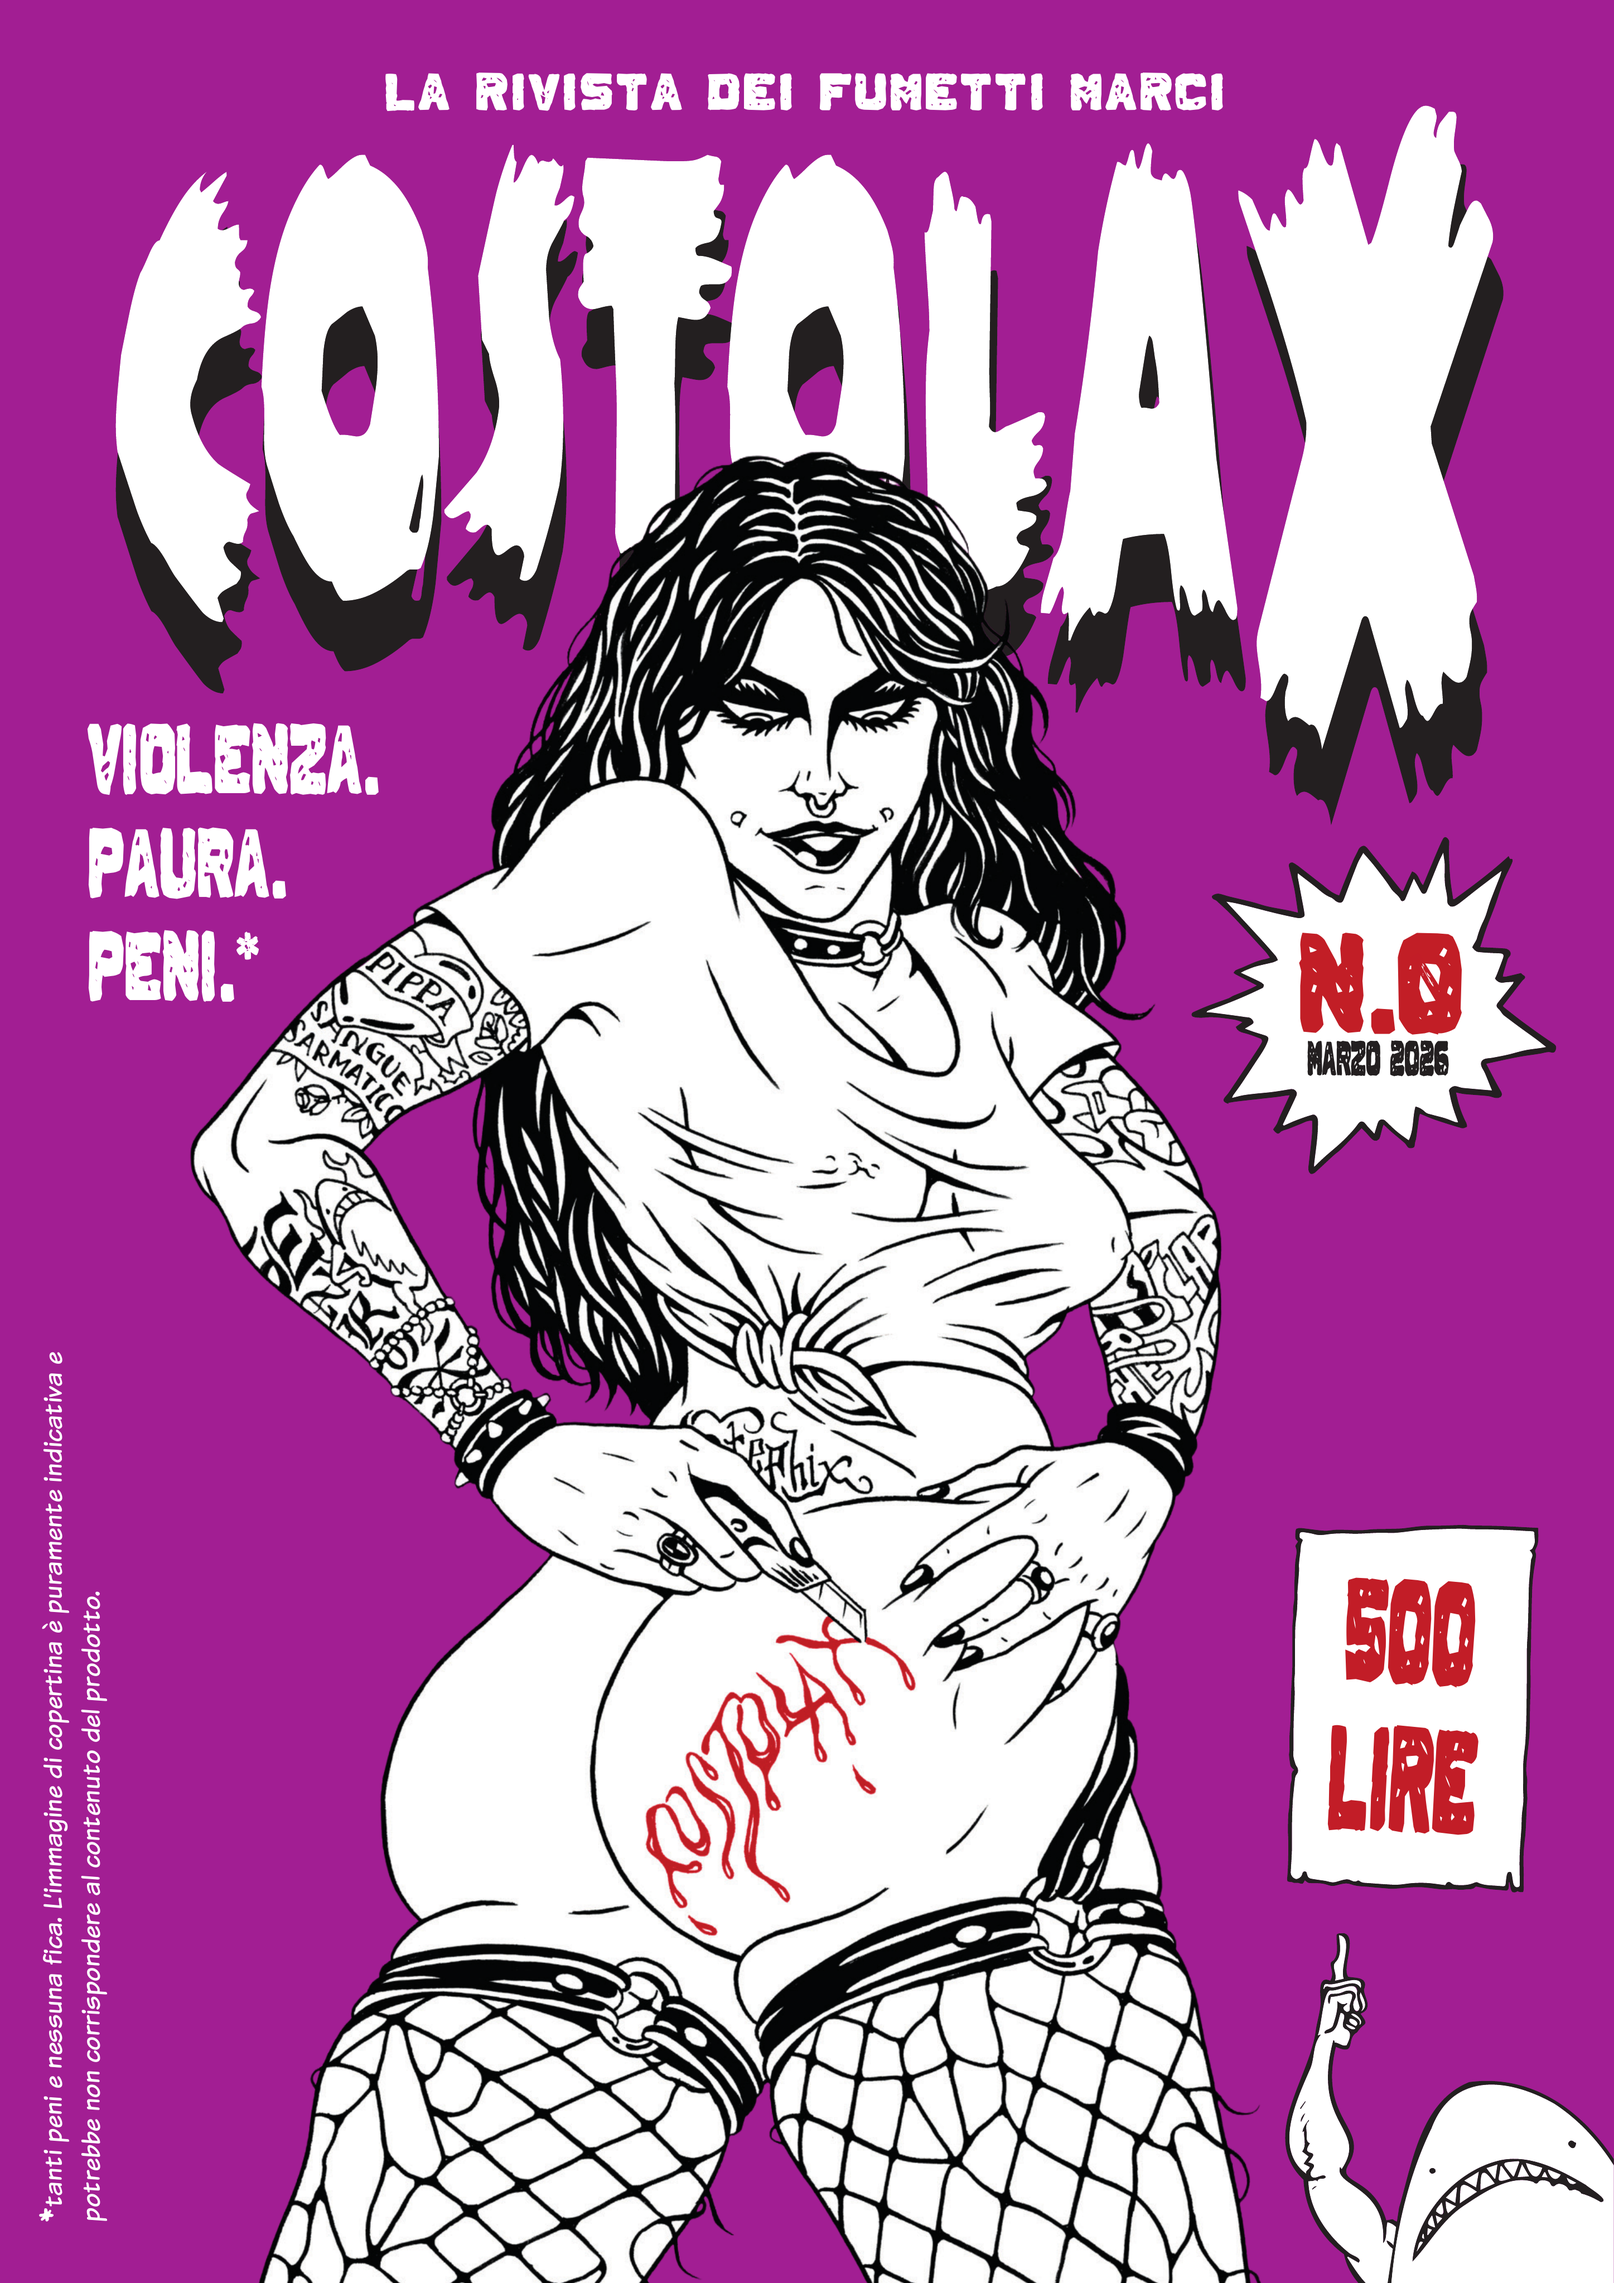
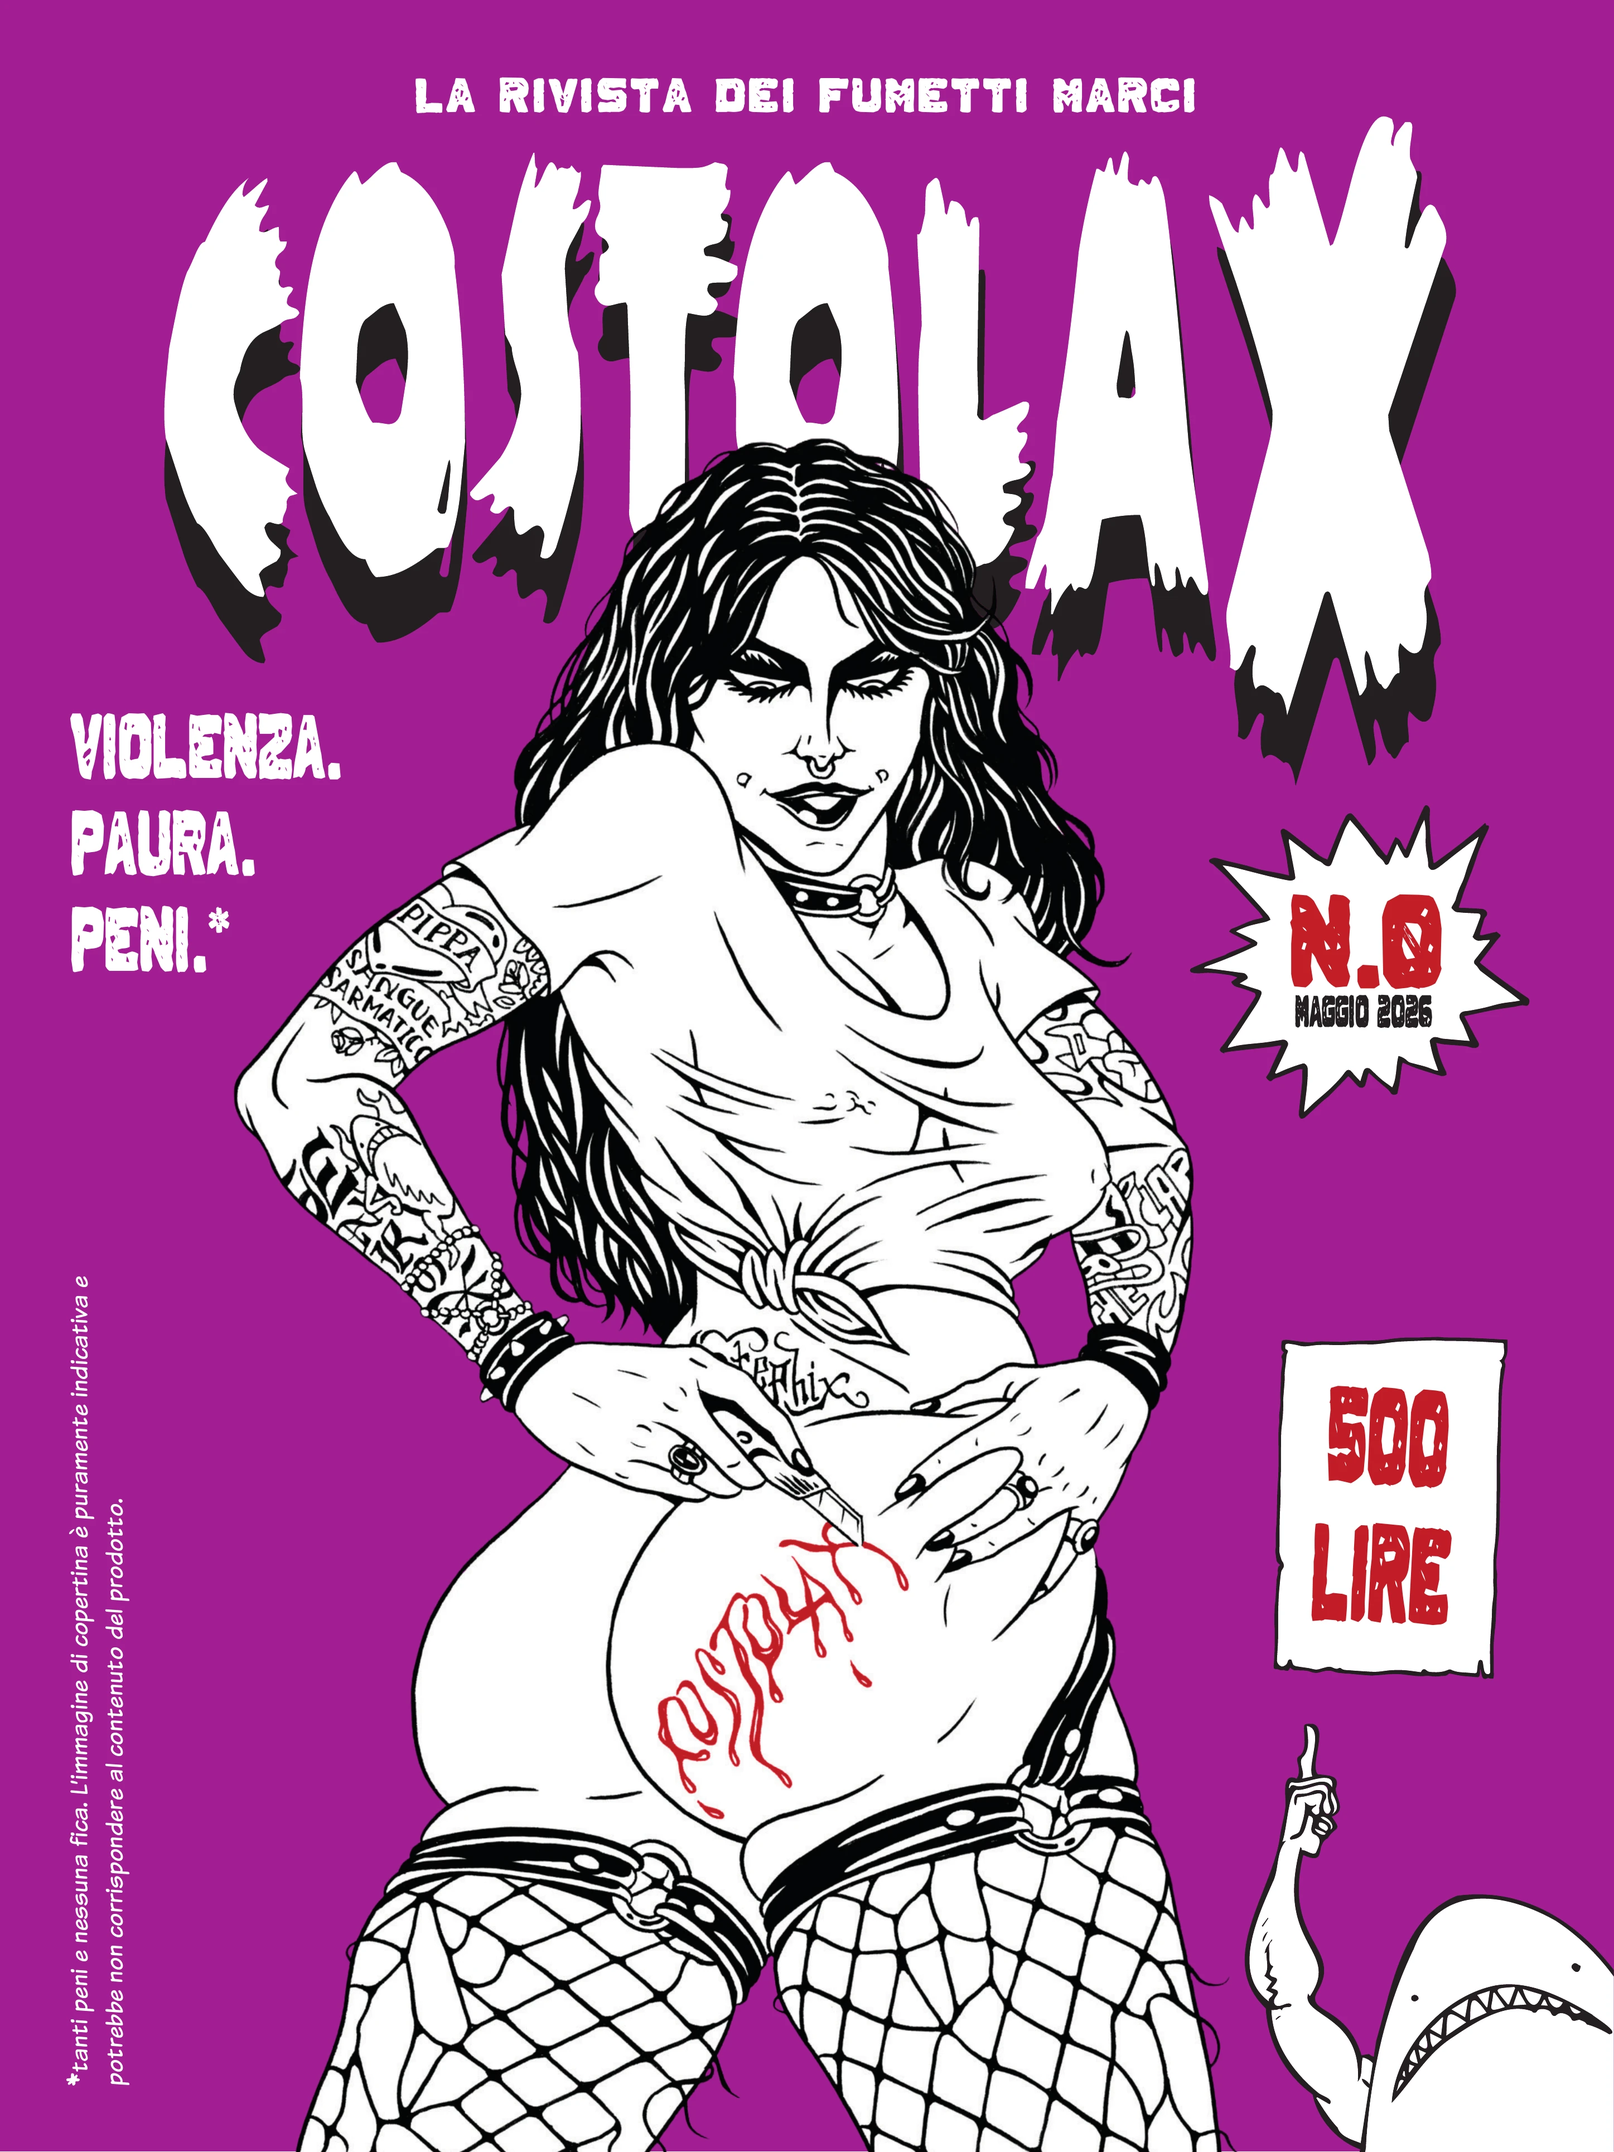
Cambiato alcune frasi, alcuni immagini di copertina e sistemato dei colori

Changed region(s): [[0.0311, 0.0311, 1.0, 1.0], [0.0311, 0.5908, 0.0933, 0.964], [0.4354, 0.4353, 0.4665, 0.4664]]

diff --git a/src/i18n/ui.ts b/src/i18n/ui.ts
@@ -31,7 +31,7 @@ const it = {
   motto: 'La rivista dei fumetti marci',
   descrizione:
     'Costolax è un collettivo di fumettisti e la sua rivista di fumetti marci: fumetti, stampe, tavole originali e fiere.',
-  nastro: ['Fumetti', 'Stampe', 'Tavole originali', 'Fiere ed eventi', 'Fatto a mano'],
+  nastro: ['Fumetti', 'Spille', 'Tavole originali', 'Fiere ed eventi', 'Adesivi'],
   saltaAlContenuto: 'Vai al contenuto',
   tornaAllaHome: 'torna alla home',
   menuPrincipale: 'Menu principale',
@@ -78,7 +78,7 @@ const it = {
     leggiIFumetti: 'Sfoglia i fumetti',
     nuovoNumero: 'Il nuovo numero',
     bandaAlt: 'Pippa Calciepugni, quarta di copertina',
-    nuvoletta: 'Il numero 0 è gratis: scaricalo, leggilo, passalo a chi non dovresti.',
+    nuvoletta: 'Beccati sto fumetto gratis! Scarica il pdf del n.0 e diffondi il verbo.',
     scaricaNumeroZero: 'Scarica il N.0 →',
     dalloShop: 'Dallo shop',
     tuttoLoShop: 'Tutto lo shop →',
@@ -92,7 +92,7 @@ const it = {
   fumetti: {
     titolo: 'Fumetti',
     descrizione: 'Tutti i fumetti di Costolax, la rivista dei fumetti marci del collettivo.',
-    intro: 'La rivista del collettivo. Il numero 0 si scarica gratis: apri la copertina.',
+    intro: 'I numeri della rivista usciti finora. Il n.0 è scaricabile gratis quindi non avete scuse.',
     anteprima: 'Anteprima',
     apreImmagine: "(apre l'immagine a grandezza piena)",
     portaloACasa: 'Portalo a casa',
@@ -123,7 +123,7 @@ const it = {
   storie: {
     titolo: 'Storie',
     descrizione: 'Le storie di Costolax: chi le scrive, chi le disegna e in quali numeri trovarle.',
-    intro: 'Le serie e le storie della rivista, e in quali numeri trovarle.',
+    intro: 'Le storie e i personaggi della scuderia Costolax.',
     suNumeri: 'Su',
     inCorso: 'In corso',
     unaStoria: (titolo: string) => `${titolo}, una storia di Costolax`,
@@ -171,7 +171,7 @@ const en: typeof it = {
   motto: 'The rotten comics magazine',
   descrizione:
     'Costolax is a comics collective and its magazine of rotten comics: books, prints, original art and fairs.',
-  nastro: ['Comics', 'Prints', 'Original art', 'Fairs and events', 'Handmade'],
+  nastro: ['Comics', 'Pins', 'Original art', 'Fairs and events', 'Stickers'],
   saltaAlContenuto: 'Skip to content',
   tornaAllaHome: 'back to the home page',
   menuPrincipale: 'Main menu',

diff --git a/src/content/fumetti/costolax-n0.md b/src/content/fumetti/costolax-n0.md
@@ -14,8 +14,8 @@ autori:
 copertina: ../../assets/fumetti/costolax-n0.webp
 copertinaAlt: Copertina viola di Costolax N.0, una ragazza tatuata con calze a rete che incide la scritta Costolax, 500 lire
 copertinaAltEn: Purple cover of Costolax N.0, a tattooed girl in fishnets carving the word Costolax, 500 lire
-uscita: Marzo 2026
-uscitaEn: March 2026
+uscita: Maggio 2026
+uscitaEn: May 2026
 pagine: 64
 colori: Bianco e nero
 coloriEn: Black and white

diff --git a/src/content/storie/zia-costola.md b/src/content/storie/zia-costola.md
@@ -1,6 +1,6 @@
 ---
 # TODO: verificare se è scritta e disegnata da Sangue Sarmatico
-titolo: Zia Costola
+titolo: Zia Costola Presenta
 autori:
   - artista: sangue-sarmatico
     ruolo: Testi e disegni
